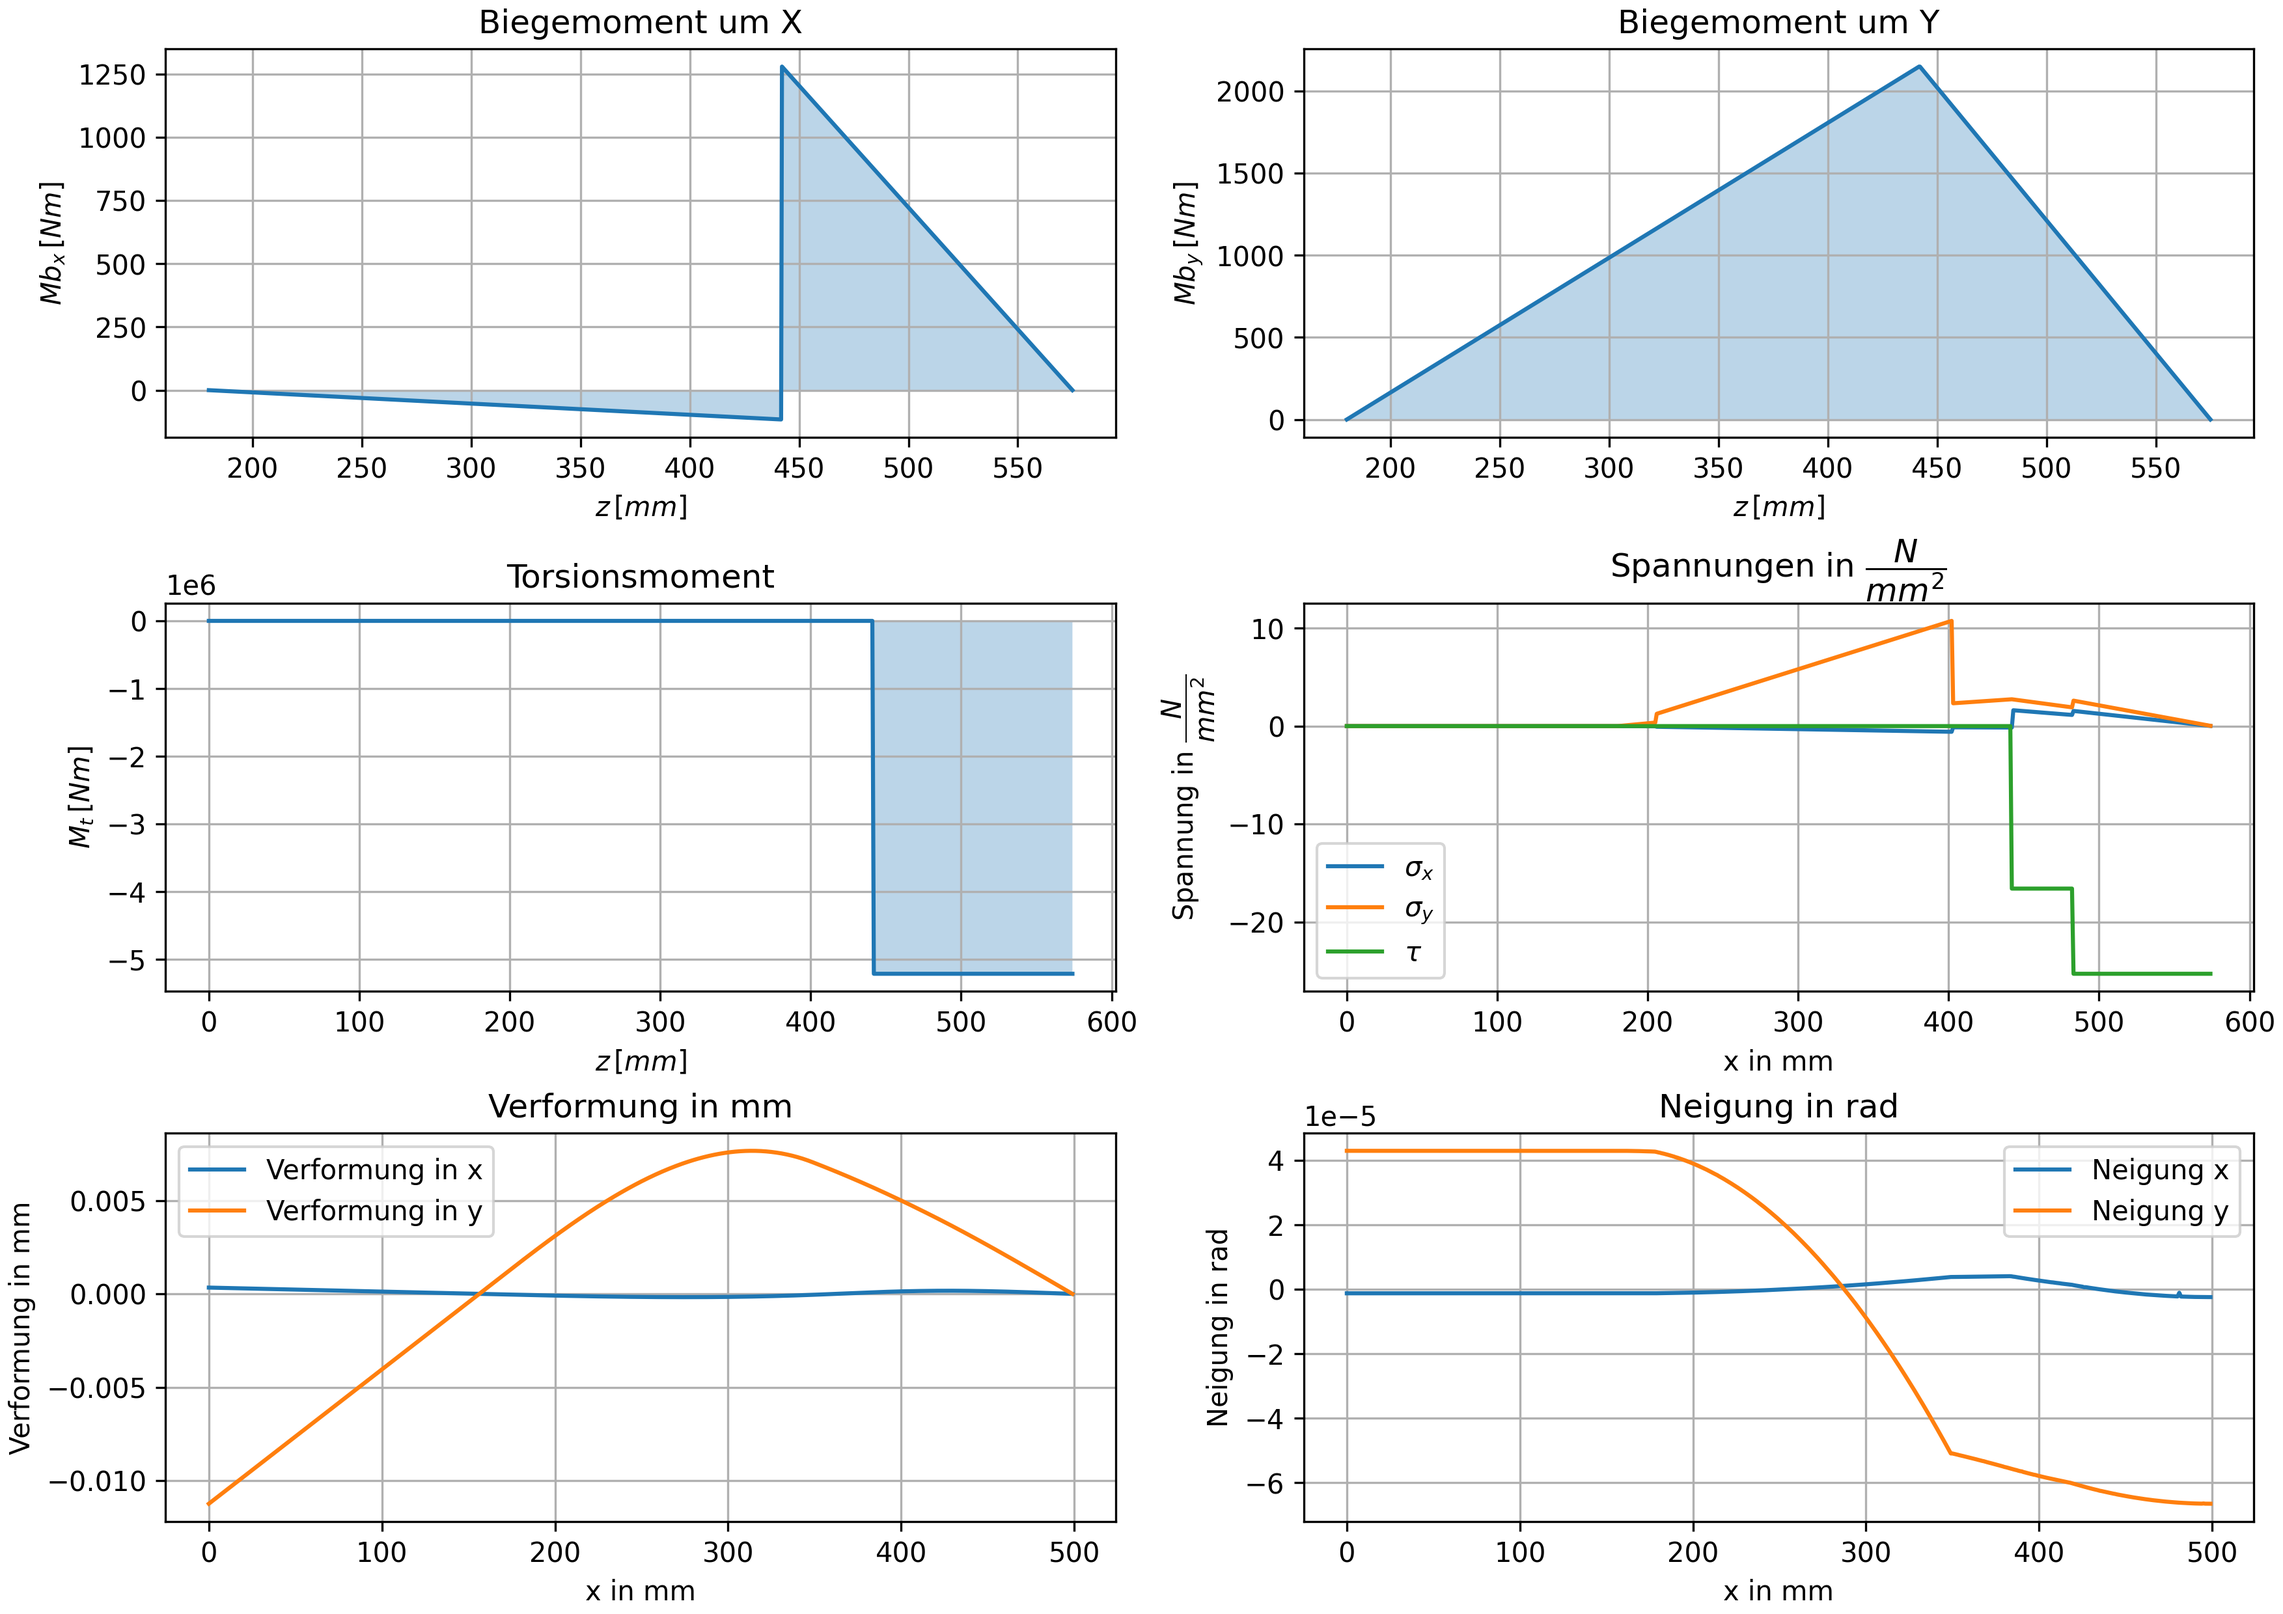
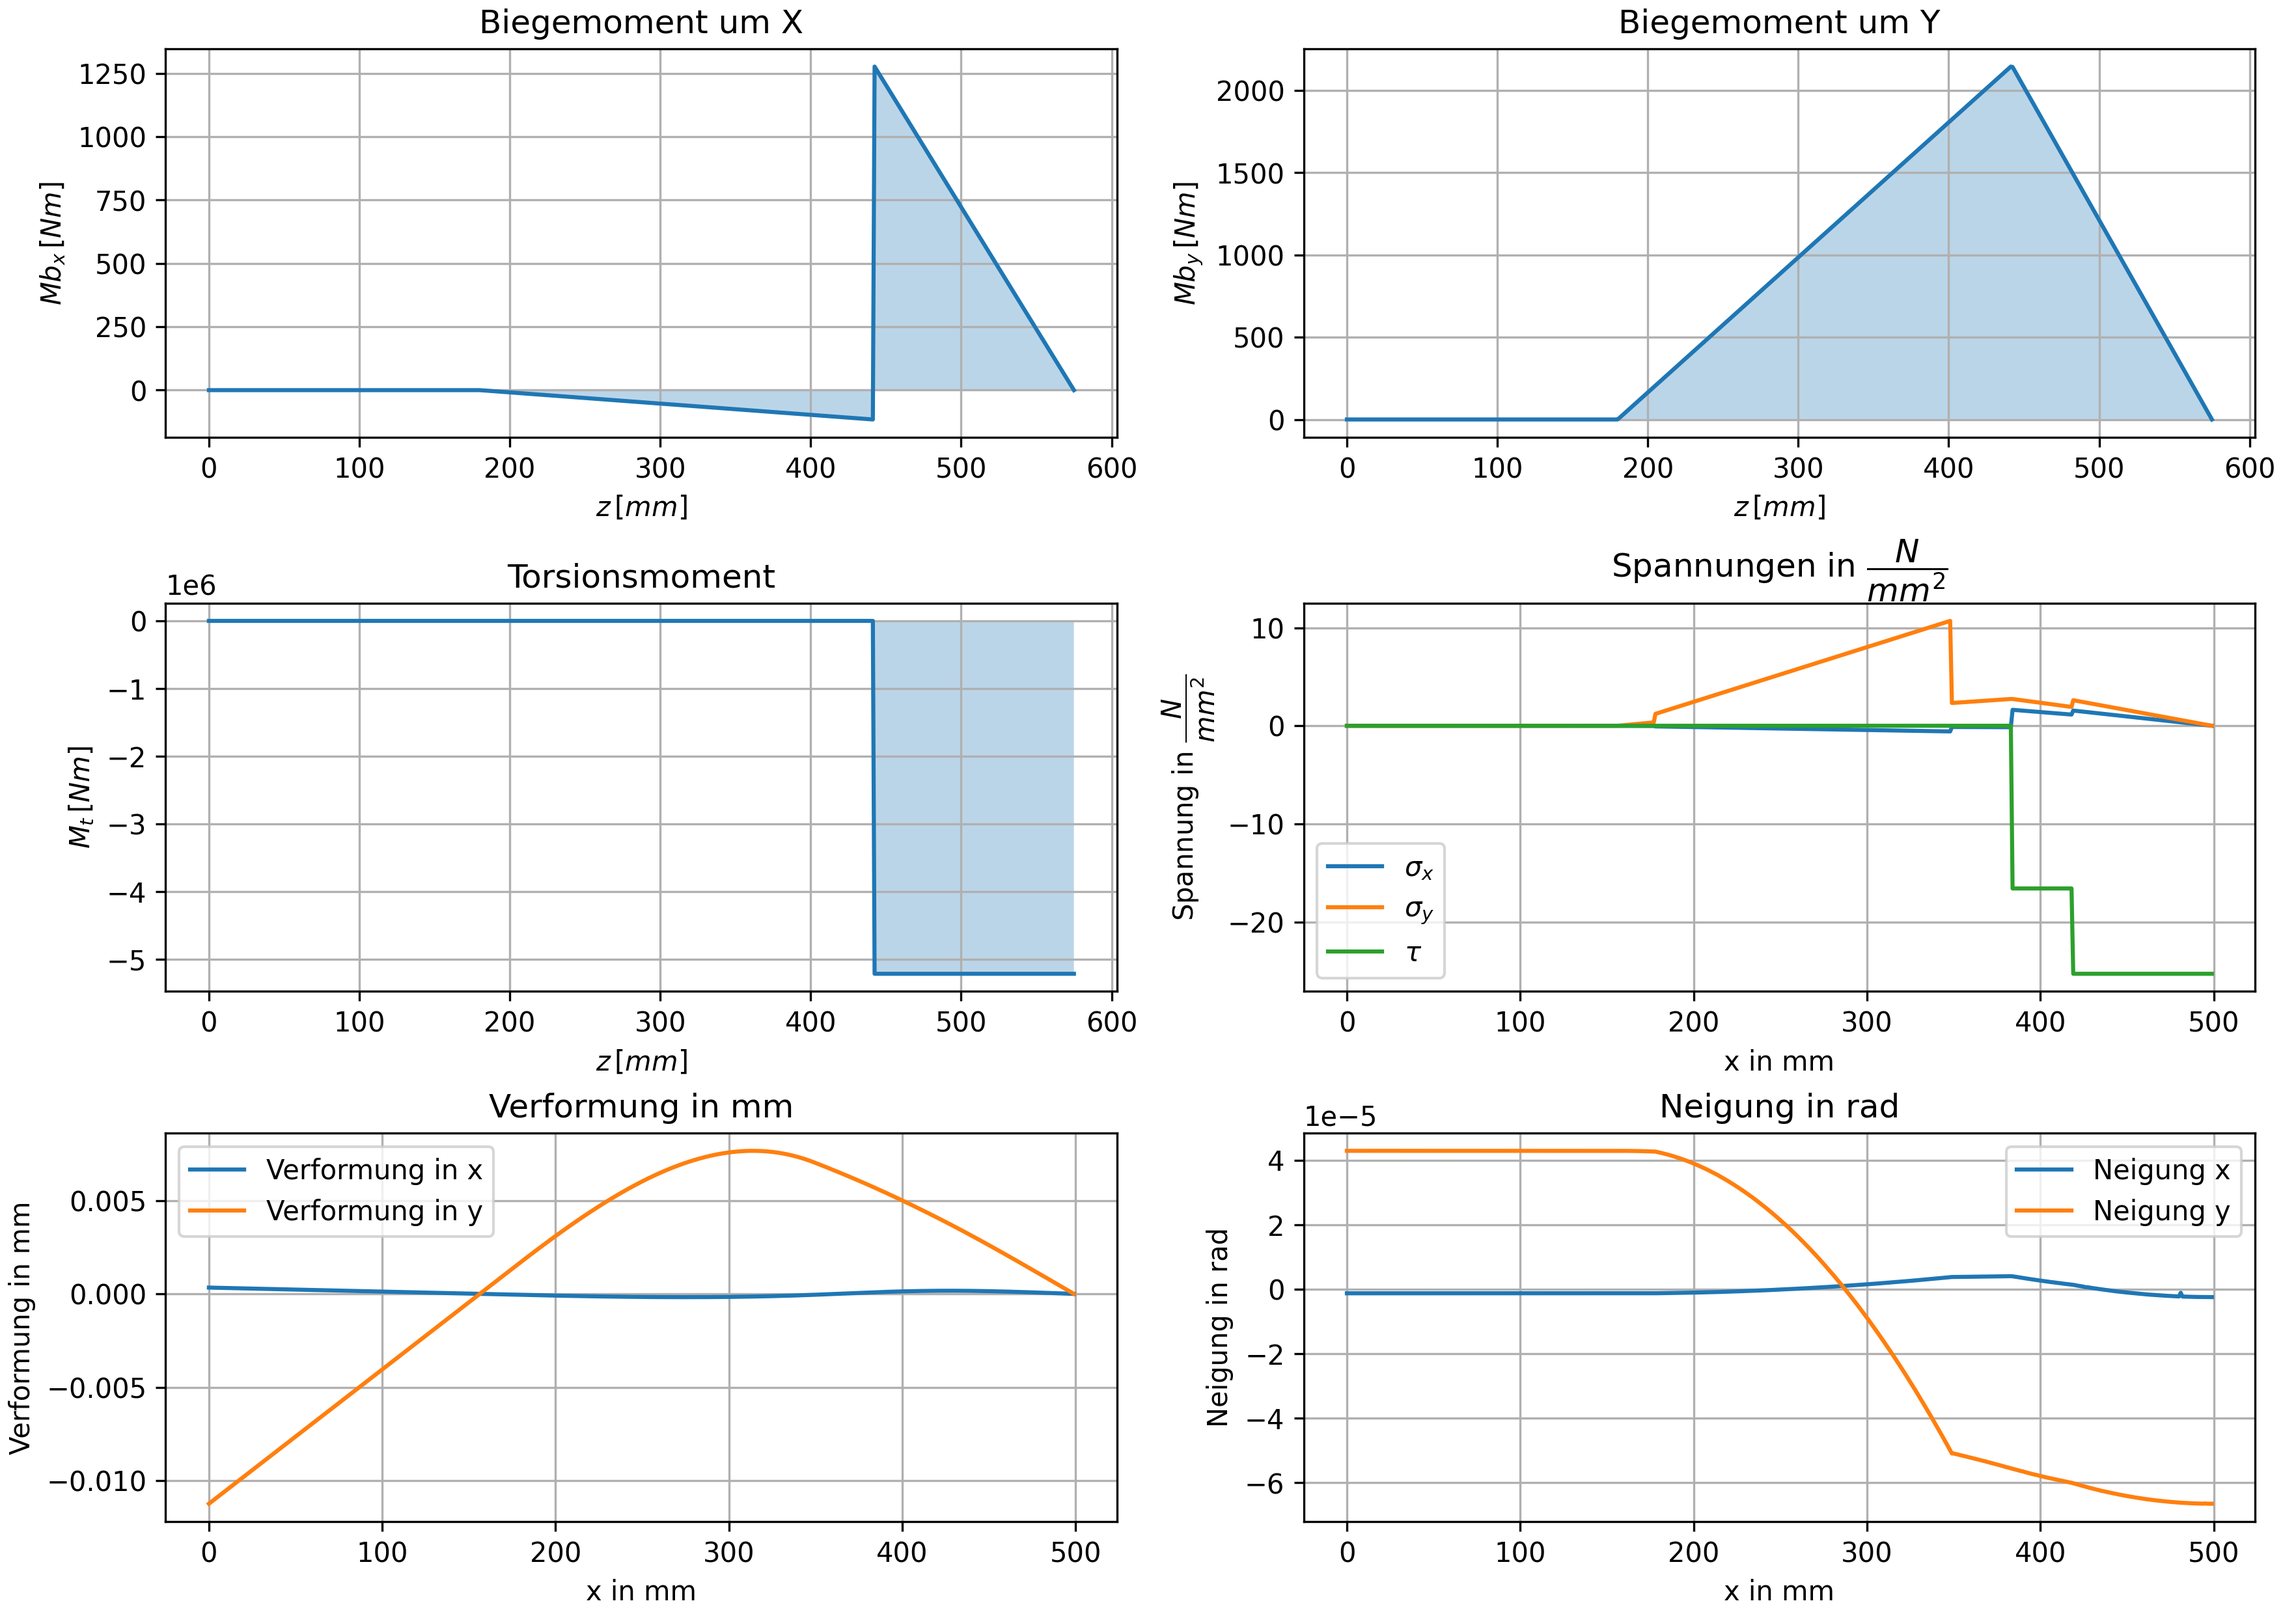
grthshrtzt

diff --git a/Klassen.py b/Klassen.py
@@ -523,6 +523,13 @@ class Welle:
             print("-"*48)
 
     def plots_speichern(self):
+
+        max_z = max(self.z_daten)
+        min_z = min(self.z_daten)
+
+        zrange = np.linspace(min_z,max_z,1000)
+        rrange = np.array(tuple(map(self.radius,zrange)))
+
         _,z_kräfte,_,_,_,_,_=zip(*self.belastungen)
         max_z_k = max(z_kräfte)
         max_z = max(self.z_daten)
@@ -539,36 +546,36 @@ class Welle:
         MB_Darstellung.set_size_inches(15,10)
 
         # Mbx Biegemomentenverlauf
-        mbx_daten = np.fromiter(map(self.Mbx,z_range_k),float,len(z_range_k))
-        ax[0,0].plot(z_range_k,mbx_daten)
-        ax[0,0].fill_between(z_range_k,0,mbx_daten,alpha=0.3)
+        mbx_daten = np.fromiter(map(self.Mbx,self.z_range),float,len(self.z_range))
+        ax[0,0].plot(self.z_range,mbx_daten)
+        ax[0,0].fill_between(self.z_range,0,mbx_daten,alpha=0.3)
         ax[0,0].set_xlabel("$z\\,[mm]$")
         ax[0,0].set_ylabel("$Mb_x\\,[Nm]$")
         ax[0,0].set_title("Biegemoment um X")
         ax[0,0].grid()
 
         # Mby Biegemomentenverlauf
-        mby_daten = np.fromiter(map(self.Mby,z_range_k),float,len(z_range_k))
-        ax[0,1].plot(z_range_k,mby_daten)
-        ax[0,1].fill_between(z_range_k,0,mby_daten,alpha=0.3)
+        mby_daten = np.fromiter(map(self.Mby,self.z_range),float,len(self.z_range))
+        ax[0,1].plot(self.z_range,mby_daten)
+        ax[0,1].fill_between(self.z_range,0,mby_daten,alpha=0.3)
         ax[0,1].set_xlabel("$z\\,[mm]$")
         ax[0,1].set_ylabel("$Mb_y\\,[Nm]$")
         ax[0,1].set_title("Biegemoment um Y")
         ax[0,1].grid()
 
 
-        Mt = tuple(map(lambda x: self.Mt(x), l))
+        Mt = tuple(map(lambda x: self.Mt(x), self.z_range))
 
-        ax[1,0].plot(l,Mt)
-        ax[1,0].fill_between(l,0,Mt,alpha=0.3)
+        ax[1,0].plot(self.z_range,Mt)
+        ax[1,0].fill_between(self.z_range,0,Mt,alpha=0.3)
         ax[1,0].set_xlabel("$z\\,[mm]$")
         ax[1,0].set_ylabel("$M_t\\,[Nm]$")
         ax[1,0].set_title("Torsionsmoment")
         ax[1,0].grid()
 
-        sigma_x = tuple(map(lambda x: self.Spannungen(x)[0], l))
-        sigma_y = tuple(map(lambda x: self.Spannungen(x)[1], l))
-        tau = tuple(map(lambda x: self.Spannungen(x)[2], l))
+        sigma_x = tuple(map(lambda x: self.Spannungen(x)[0], self.z_range))
+        sigma_y = tuple(map(lambda x: self.Spannungen(x)[1], self.z_range))
+        tau = tuple(map(lambda x: self.Spannungen(x)[2], self.z_range))
 
         ax[1,1].plot(sigma_x, label=r"$\sigma_x$")
         ax[1,1].plot(sigma_y, label=r"$\sigma_y$")

diff --git a/PDFs/PDFs.py b/PDFs/PDFs.py
@@ -21,7 +21,7 @@ knitr = rpackages.importr('knitr')
 
 
 
-D = pd.read_csv(r"PDFs\Zwischenwelle.csv")
+D = pd.read_csv(r"PDFs\Abtriebswelle.csv")
 
 
 plot1 = "C:\\Users\\Nadine\\Documents\\Studium\\Studium\\1234567890\\ME_Wellen\\ME_Wellennachweis\\"+D.loc[0,"Welle"]+"WELLE.png"
